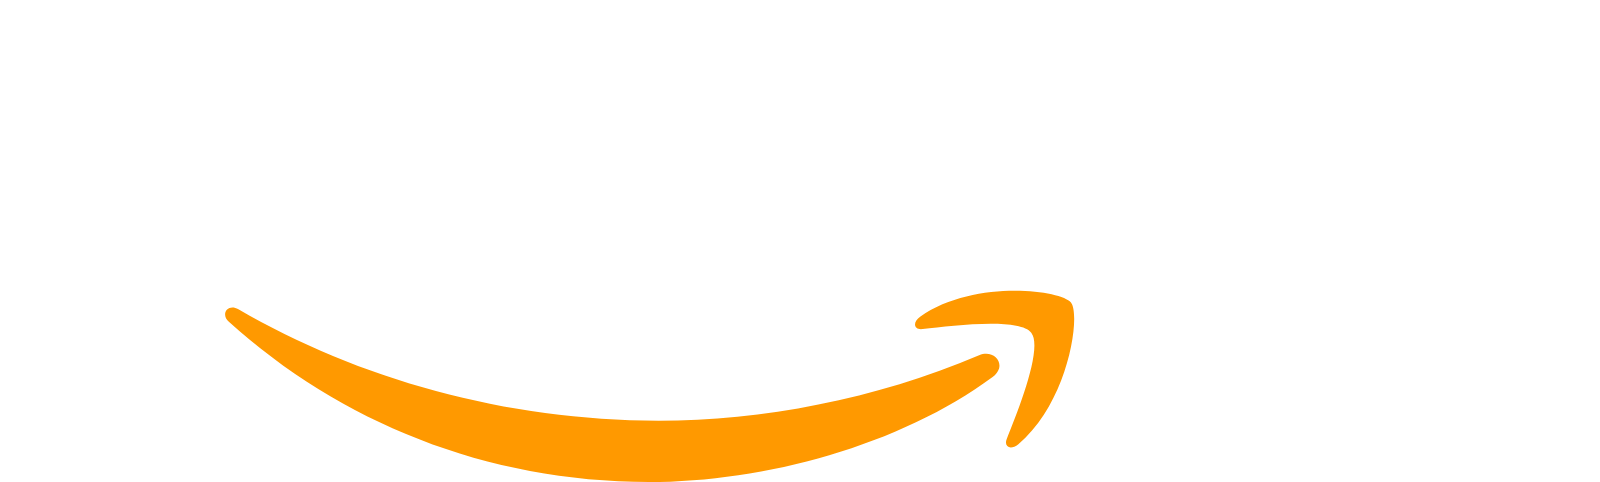
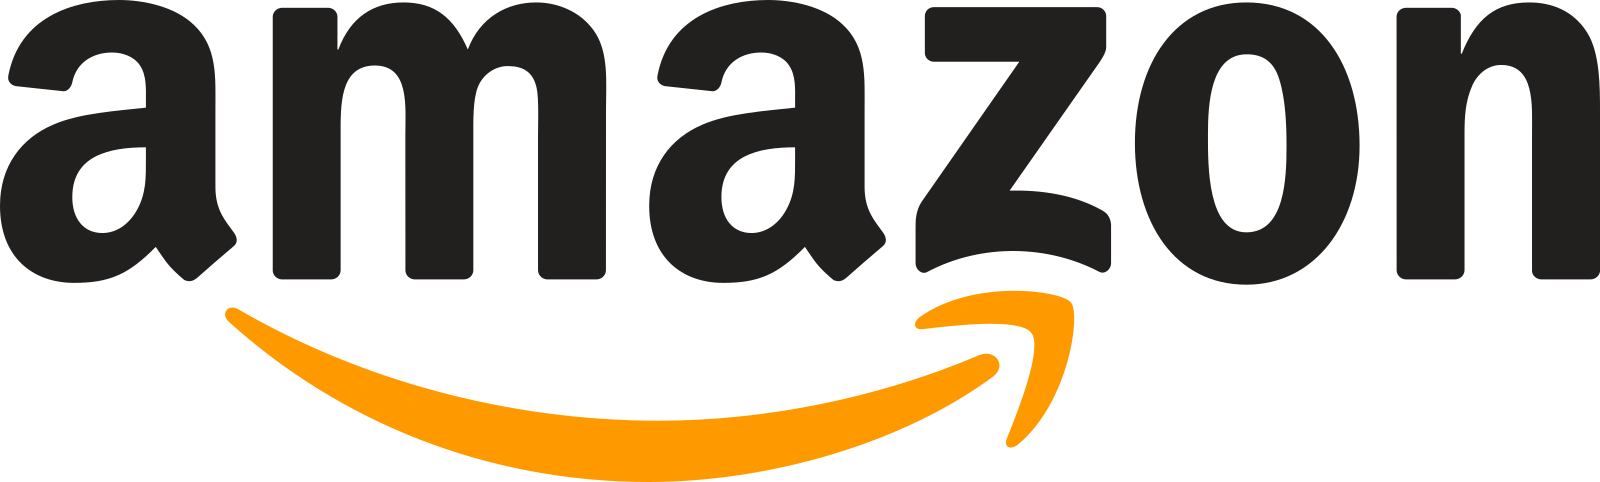
fix(cashback): color contrast issues

diff --git a/src/pages/dashboard/cashback.tsx b/src/pages/dashboard/cashback.tsx
@@ -4,9 +4,11 @@ import { Card } from '@components/pages/Cashback/Card'
 import { Balance } from '@components/pages/Cashback/Balance'
 
 import { useI18n } from '@hooks/useI18n'
+import { useTheme } from '@contexts/ThemeContext'
 
 const Cashback = () => {
   const { t } = useI18n()
+  const { theme } = useTheme()
 
   return (
     <div className="flex flex-col px-2 pt-8">
@@ -27,7 +29,14 @@ const Cashback = () => {
         <div className="flex items-center gap-5 max-w-screen-md flex-wrap">
           <Card companyImageUrl="/cashback/c&a.png" companyName="C&A" />
           <Card companyImageUrl="/cashback/ifood.png" companyName="iFood" />
-          <Card companyImageUrl="/cashback/amazon.png" companyName="Amazon" />
+          <Card
+            companyImageUrl={`${
+              theme === 'dark'
+                ? '/cashback/dark-amazon.png'
+                : '/cashback/amazon.png'
+            }`}
+            companyName="Amazon"
+          />
         </div>
       </div>
     </div>

diff --git a/src/locales/pt/cashback.ts b/src/locales/pt/cashback.ts
@@ -2,6 +2,6 @@ export const cashback = {
   headTitle: 'Tokenverse | Cashback',
   headDescription: 'Parceiros Tokenverse',
   cashbackDescription:
-    'Você pode gastar seus tokens VERSECASH nos sites de nossos parceiros: ',
-  cashbackBalance: 'Seu saldo: (VERSECASH)'
+    'Você pode gastar seus tokens VCASH nos sites de nossos parceiros: ',
+  cashbackBalance: 'Seu saldo: (VCASH)'
 }

diff --git a/src/locales/en/cashback.ts b/src/locales/en/cashback.ts
@@ -2,6 +2,6 @@ export const cashback = {
   headTitle: 'Tokenverse | Cashback',
   headDescription: 'Tokenverse partners',
   cashbackDescription:
-    "You can spend your VERSECASH tokens on our partners' website: ",
-  cashbackBalance: 'Your balance: (VERSECASH)'
+    "You can spend your VCASH tokens on our partners' website: ",
+  cashbackBalance: 'Your balance: (VCASH)'
 }

diff --git a/src/components/pages/Cashback/Card.tsx b/src/components/pages/Cashback/Card.tsx
@@ -21,7 +21,8 @@ export function Card({ companyImageUrl, companyName }: Props) {
       flex
       items-center
       justify-center
-      border-gray-800"
+      border-gray-400
+      dark:border-gray-800"
     >
       <Image
         src={companyImageUrl}
